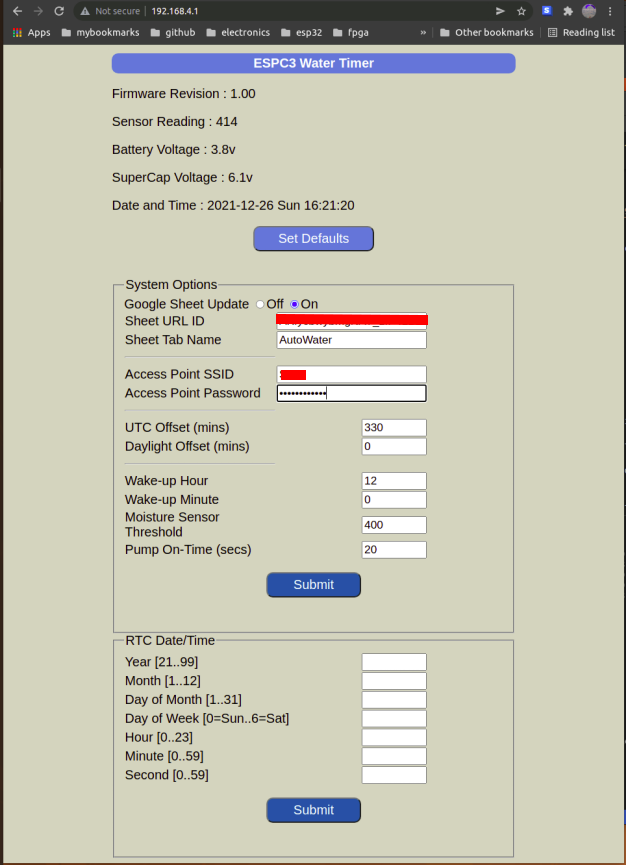
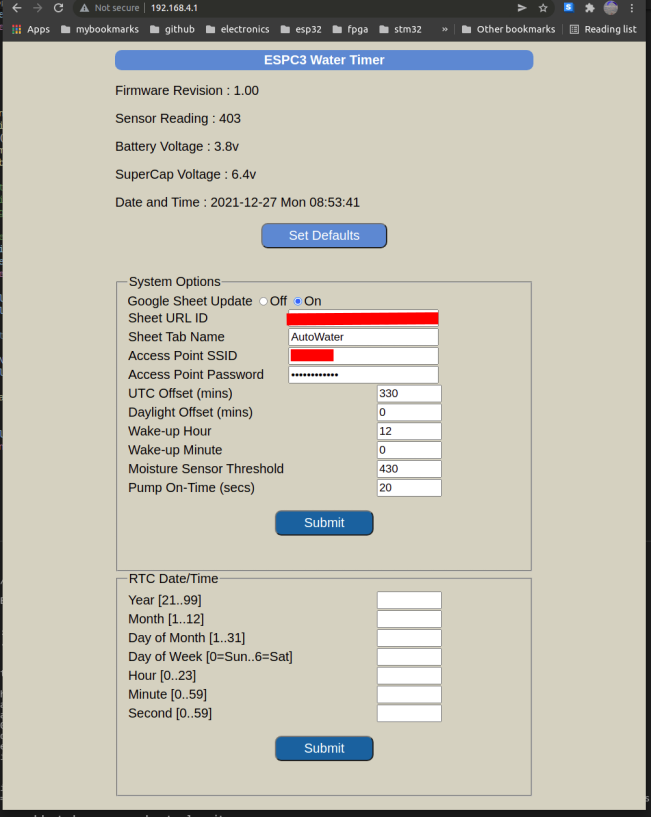
add mdns

Changed region(s): [[0.0, 0.0, 1.0, 1.0]]

diff --git a/data/index.html b/data/index.html
@@ -33,13 +33,10 @@ Google Sheet Update
 <table>
 <tr><td>Sheet URL ID</td><td><input type="text" id="gsID" name=gsID value="%GS_ID%"></td></tr>
 <tr><td>Sheet Tab Name</td><td><input type="text" id="gsSheet" name=gsSheet value="%GS_SHEET%"></td></tr>
-<td><hr></td>
 <tr><td>Access Point SSID</td><td><input type="text" id="wifiSSID" name=wifiSSID value="%WIFI_SSID%"></td></tr>
 <tr><td>Access Point Password</td><td><input type="password" id="wifiPassword" name=wifiPassword value="%WIFI_PASSWORD%"></td></tr>
-<td><hr></td>
 <tr><td>UTC Offset (mins)</td><td><input type="number" id="utcOffset" name=utcOffset value="%UTC_OFFSET%"></td></tr>
 <tr><td>Daylight Offset (mins)</td><td><input type="number" id="daylightOffset" name=daylightOffset value="%DAYLIGHT_OFFSET%"></td></tr>
-<td><hr></td>
 <tr><td>Wake-up Hour</td><td><input type="number" name="scheduleHour" min="9" max="15" value="%SCHEDULE_HOUR%"></td></tr>
 <tr><td>Wake-up Minute</td><td><input type="number" name="scheduleMinute"  min="0" max="59" value="%SCHEDULE_MINUTE%"></td></tr>
 <tr><td>Moisture Sensor Threshold</td><td><input type="number" name="scheduleSensorThreshold" min="350" max="1000" value="%SCHEDULE_SENSOR_THRESHOLD%"></td></tr>

diff --git a/src/gs_update.cpp b/src/gs_update.cpp
@@ -1,4 +1,5 @@
 #include <WiFi.h>
+#include <ESPmDNS.h>
 #include <HTTPClient.h>
 #include <esp_wifi.h>
 #include "nv_data.h"
@@ -6,42 +7,15 @@
 
 static String SzMonth[12]= {"Jan","Feb","Mar","Apr","May","Jun","Jul","Aug","Sep","Oct","Nov","Dec"};
 
-//#define USE_HTTPS
 
-#ifdef USE_HTTPS
+#if 0
+
 #include <WiFiClientSecure.h>
 
 WiFiClientSecure client;
 
 static const char* SzGSHost = "script.google.com";
 static const int HttpsPort = 443;
-#endif
-
-bool gs_init() {
-	esp_wifi_start();
-	delay(100);
-	WiFi.mode(WIFI_STA);
-	WiFi.begin(GSConfig.wifiSSID.c_str(), GSConfig.wifiPassword.c_str());
-
-	// note : if the Access Point is not running, the timeout happens quickly. 
-	// This timeout appears to be for issues with connecting to a running AP,
-	// e.g. wrong password.
-	// In this situation, not only is the default timeout very long (60s),
-	// the average current drawn nearly doubles. So we reduce the timeout to 8s.
-	if (WiFi.waitForConnectResult(8000UL) != WL_CONNECTED) {
-		Serial.println("Connection to Internet AP failed!");
-		return false;
-		}
-	Serial.print("Connected, IP Address : ");
-	Serial.println(WiFi.localIP());
-#ifdef USE_HTTPS 
-	client.setInsecure();
-#endif
-	return true;
-	}
-
-
-#ifdef USE_HTTPS
 
 bool gs_update(GS_DATA_t &data) {
 	Serial.printf("connecting to %s\n", SzGSHost);
@@ -151,3 +125,33 @@ bool gs_update(GS_DATA_t &data) {
 	}
     
 #endif
+
+
+bool gs_init() {
+	esp_wifi_start();
+	delay(100);
+	WiFi.mode(WIFI_STA);
+	WiFi.begin(GSConfig.wifiSSID.c_str(), GSConfig.wifiPassword.c_str());
+
+	// note : if the Access Point is not running, the timeout happens quickly. 
+	// This timeout appears to be for issues with connecting to a running AP,
+	// e.g. wrong password.
+	// In this situation, not only is the default timeout very long (60s),
+	// the average current drawn nearly doubles. So we reduce the timeout to 8s.
+	if (WiFi.waitForConnectResult(8000UL) != WL_CONNECTED) {
+		Serial.println("Connection to Internet AP failed!");
+		return false;
+		}
+	Serial.print("Connected, IP Address : ");
+	Serial.println(WiFi.localIP());
+#if 0
+	client.setInsecure();
+#endif
+	if (!MDNS.begin("esp32")) { // Use http://esp32.local for web server page
+		Serial.println("Error setting up MDNS responder!");
+	    }
+	else {
+  		Serial.println("mDNS responder started");
+		}
+	return true;
+	}

diff --git a/README.md b/README.md
@@ -120,8 +120,7 @@ The DS3231 datsheet gives us a useful option : leave the DS3231 VCC pin un-conne
     
 There are a couple of caveats : 
 1. It takes a couple of seconds for the oscillator to start up the first time power is applied to VBAT.
-2. If you disconnect the battery, there is no backup so the RTC loses all date/time information. This is not an issue if Google Sheet updates are enabled. When the ESP32-C3 connects to the internet, it updates the RTC with date & time from an Network Time Protocol (NTP) server.<br> 
-If Google Sheet updates are disabled, manually set the RTC date/time via the WiFi configuration web page. 
+2. If you disconnect the battery, there is no backup so the RTC loses all date/time information. This is not an issue if Google Sheet updates are enabled. When the ESP32-C3 connects to the internet, it updates the RTC with date & time from an Network Time Protocol (NTP) server. If Google Sheet updates are disabled, manually set the RTC date/time via the WiFi configuration web page. 
 
 ### ESP32-C3 Wake-up Reset Pulse
 A 4.7uF capacitor in series between the DS3231 INT_ output pin and the ESP32-C3 EN pin generates a reset pulse for the ESP32-C3 at the daily scheduled time.
